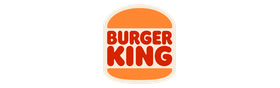
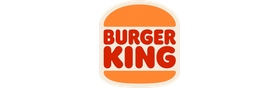
fix(home): give Burger King the padding headroom and lift Belvedere
Burger King is a compact badge among wide wordmarks, height-bound at
contain-fit with its mass correction already pinned at the clamp — the
normaliser had no room to give it. `boost` now raises the clamp ceiling
with it, so 1.1 lets the mark spend the canvas safety padding; the bun
arcs touch the edge rows only at tangent points, so nothing is lost to
the downscale.

Belvedere reads low: the counter punch removed the crown's enclosed
whites, which were high-up mass, dropping the ink centroid to ~60
against the 43.5 canvas middle. A -4 `dy` — the most the height-bound
mark can move before the cross tip leaves the canvas — brings it level
with its iRobot neighbour.

Verified on the neighbour strip and against the live belt on the dev
server.

Changed region(s): [[0.3429, 0.0, 0.6571, 1.0]]

diff --git a/scripts/client-logos/pipeline.py b/scripts/client-logos/pipeline.py
@@ -115,9 +115,10 @@ def gd(name):
 # outline runs the full height — where it has to be set by eye and verified.
 # `tol` overrides CONNECT_TOL for a plate that needs a wider reach, and
 # `plate_ink` repaints a white knockout in its plate colour. `boost` multiplies
-# the optical-mass correction (still clamped at contain-fit), for a mark whose
-# solid plate inflates its measured mass — belt pass only, verified by eye on
-# the contact sheet. `punch` keys the plate colour globally rather than by
+# the optical-mass correction and raises its clamp ceiling with it, so a value
+# above 1.0 lets a contain-fit-bound mark spend the canvas safety padding —
+# trading a little edge-row weight at the downscale (see PAD_X/PAD_Y) for size.
+# Belt pass only, verified by eye on the contact sheet. `punch` keys the plate colour globally rather than by
 # border connectivity, without the `plate_ink` repaint: for positive artwork
 # whose enclosed glyph counters are background showing through, not ink, and
 # would otherwise ship as opaque plate-coloured boxes. `dy` nudges the placed
@@ -135,8 +136,15 @@ BRANDS = [
     # the "RESTAURACJA" strap line — unreadable at belt height — and keeps the
     # crown with the wordmark. `punch` clears the white counters of B, D and R
     # (and the crown's enclosed whites), which the border flood cannot reach.
-    ("belvedere", "Belvedere", gd("belvedere.png"), "belvedere", {"gap": 2, "punch": True}),
-    ("burger-king", "Burger King", gd("Burger_King_2020.svg.png"), None, {}),
+    # The up-nudge counters the bottom-heavy lockup reading low (ink centroid
+    # 56.4 against the 43.5 canvas middle); -4 is the most the height-bound
+    # mark can move before the cross tip leaves the canvas.
+    ("belvedere", "Belvedere", gd("belvedere.png"), "belvedere", {"gap": 2, "punch": True, "dy": -4}),
+    # A compact badge among wide wordmarks: height-bound at contain-fit with
+    # its mass correction pinned at the clamp, so the normaliser has no room
+    # left. The boost spends the vertical padding — the bun arcs touch the
+    # canvas edge only at tangent points, so nothing is lost to the downscale.
+    ("burger-king", "Burger King", gd("Burger_King_2020.svg.png"), None, {"boost": 1.1}),
     ("dpd", "DPD", gd("DPD_logo_(2015).svg.webp"), None, {}),
     ("engie", "ENGIE", gd("ENGIE_logotype_2018.png"), "engie", {}),
     ("fm-logistics", "FM Logistic", repo("fm-logistics"), "fm-logistics", {}),
@@ -437,7 +445,8 @@ def build_belt():
 
     marks, rows = [], []
     for key, name, slug, mark, fit, cut, dark, opts in prepared:
-        correction = min(1.0, max(0.5, (median / masses[key]) ** 0.5) * opts.get("boost", 1.0))
+        boost = opts.get("boost", 1.0)
+        correction = min(boost, max(0.5, (median / masses[key]) ** 0.5) * boost)
         placed = place(mark, fit * correction, opts.get("dy", 0))
         placed.save(os.path.join(OUT, f"{key}.png"))
         marks.append((key, placed))
